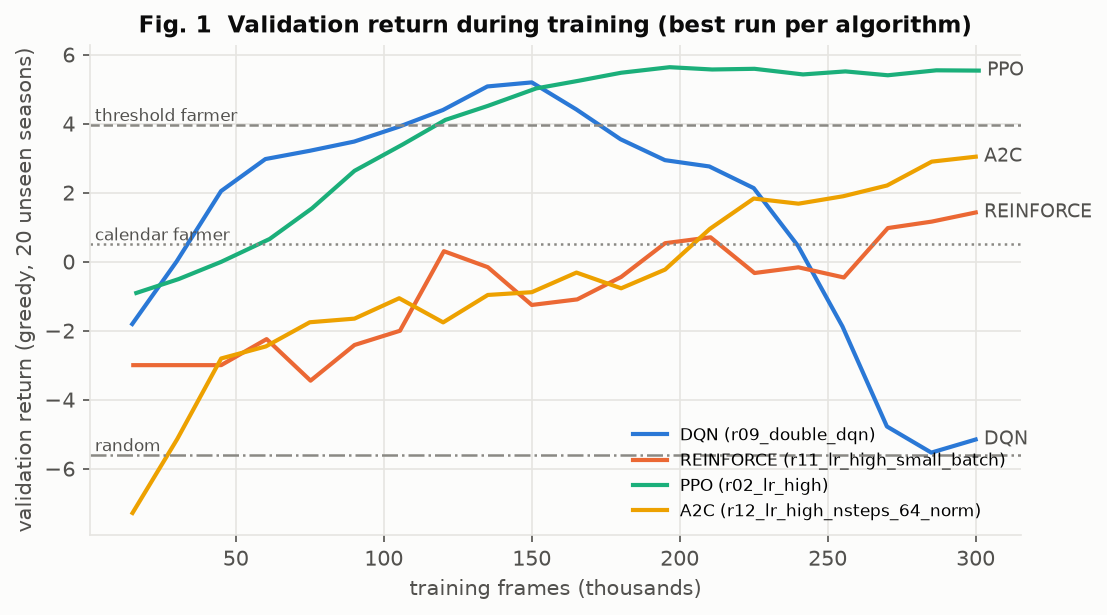
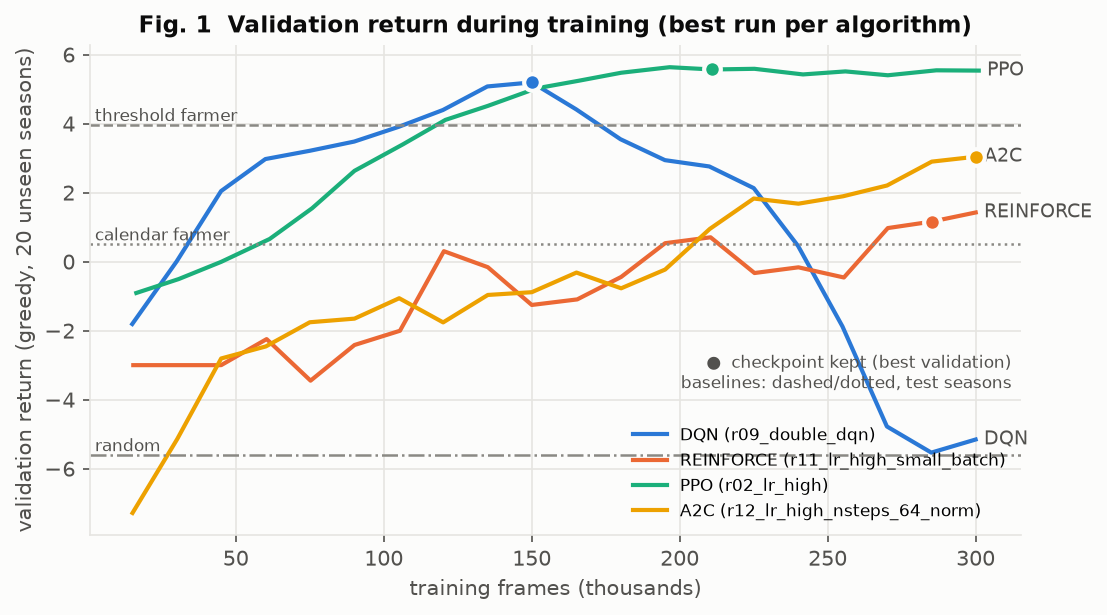
Fix figure labels; mark kept checkpoints; log-scale Q-values

diff --git a/analysis/plots.py b/analysis/plots.py
@@ -88,6 +88,8 @@ def fig_comparative():
         r = runs(a)[b]
         x, y = col(r, "frames") / 1000, col(r, "val_return_mean")
         ax.plot(x, smooth(y), color=COLORS[a], label=f"{NAMES[a]} ({b})")
+        k = int(np.nanargmax(y))  # checkpoint kept = best validation evaluation
+        ax.plot(x[k], smooth(y)[k], "o", ms=8, color=COLORS[a], mec=SURFACE, mew=2, zorder=5)
         ends.append([smooth(y)[-1], x[-1], NAMES[a]])
     # direct end labels, nudged apart so they never overlap
     ends.sort()
@@ -108,6 +110,8 @@ def fig_comparative():
     ax.set(xlabel="training frames (thousands)", ylabel="validation return (greedy, 20 unseen seasons)",
            title="Fig. 1  Validation return during training (best run per algorithm)")
     ax.legend(loc="lower right", fontsize=8)
+    ax.text(0.99, 0.30, "●  checkpoint kept (best validation)\nbaselines: dashed/dotted, test seasons",
+            transform=ax.transAxes, ha="right", fontsize=8, color=INK2)
     save(fig, "fig1_comparative_rewards.png")
 
 
@@ -123,9 +127,13 @@ def fig_dqn_loss():
         kw = dict(color=COLORS["dqn"] if hl else MUTED, lw=2 if hl else 1, alpha=1 if hl else 0.55,
                   label=f"{name} (best)" if hl else None)
         a1.plot(x, col(r, "loss"), **kw)
-        a2.plot(x, col(r, "q_mean"), **kw)
+        q = col(r, "q_mean")
+        a2.plot(x, q, **kw)
+        if np.nanmax(q) > 20:  # name the runs whose value estimates blew up
+            a2.annotate(name, (x[-1], q[-1]), xytext=(-4, 0), textcoords="offset points",
+                        ha="right", va="center", fontsize=8, color=INK2)
     a1.set(xlabel="frames (thousands)", ylabel="mean TD loss", title="DQN objective (TD loss)", yscale="log")
-    a2.set(xlabel="frames (thousands)", ylabel="mean max-Q of sampled batch", title="DQN value estimates")
+    a2.set(xlabel="frames (thousands)", ylabel="mean max-Q of sampled batch (log)", title="DQN value estimates", yscale="log")
     a1.legend(fontsize=8)
     fig.suptitle("Fig. 2  DQN loss and Q-values across all 10 runs (grey) - best run highlighted", fontsize=10, color=INK)
     save(fig, "fig2_dqn_loss.png")
@@ -187,13 +195,13 @@ def fig_generalization():
                        Patch(facecolor=MUTED, alpha=0.45, hatch="//", label="drought (−40% rain)")],
               loc="lower left", fontsize=8)
     ax.set_xticks(x, [NAMES.get(p, p.replace("_", "\n")) for p in pols], fontsize=9)
-    ax.set(ylabel="held-out return (mean ± sd, 50 seasons)",
+    ax.set(ylabel="test return (mean ± sd)\n50 episodes over 9 real seasons",
            title="Fig. 5  Generalisation to unseen weather years (test set)")
     save(fig, "fig5_generalization.png")
 
 
 def fig_sweeps():
-    fig, axes = plt.subplots(1, 4, figsize=(14, 3.8), sharey=True)
+    fig, axes = plt.subplots(1, 4, figsize=(16, 4.2), gridspec_kw={"wspace": 0.85})
     for ax, a in zip(axes, ALGOS):
         rows = read_csv(LOGS / a / "sweep_summary.csv")
         if not rows:
@@ -204,7 +212,7 @@ def fig_sweeps():
         best = int(np.argmax([float(r["best_val_return"]) for r in rows]))
         ax.barh(range(len(v)), v, color=[COLORS[a] if i == best else MUTED for i in range(len(v))],
                 edgecolor=SURFACE, linewidth=2)
-        ax.set_yticks(range(len(v)), [r["run"] for r in rows], fontsize=8)
+        ax.set_yticks(range(len(v)), [r["run"] for r in rows], fontsize=7.5)  # each panel its own run names
         ax.invert_yaxis()
         ax.axvline(0, color=INK2, lw=0.8)
         ax.set(title=NAMES[a], xlabel="test return (best-val checkpoint)")
